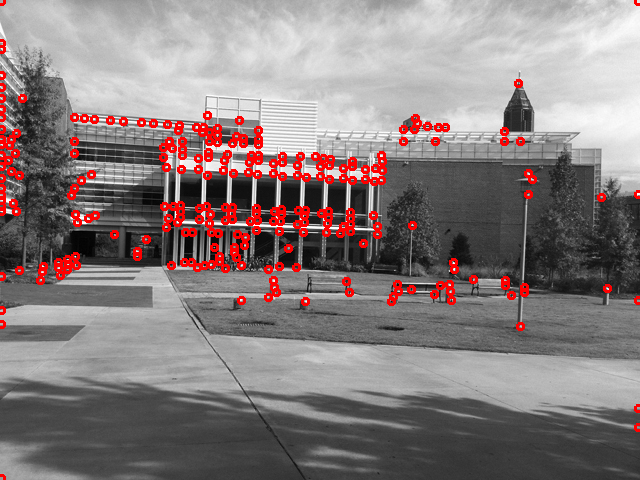
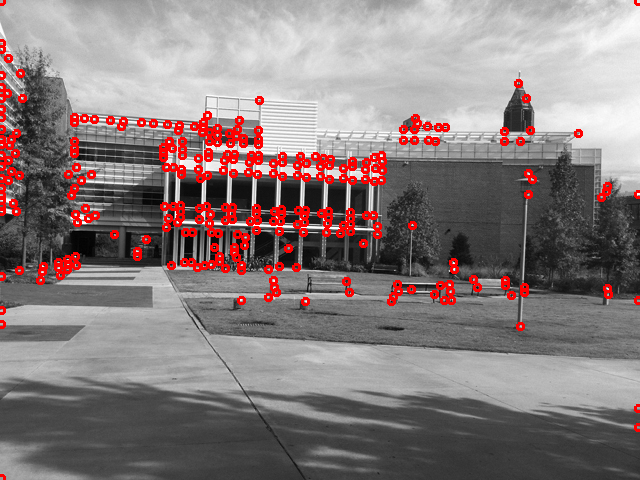
fixed harris

diff --git a/ps4_python_Plokhovska_Zhanneta/ps4.py b/ps4_python_Plokhovska_Zhanneta/ps4.py
@@ -68,11 +68,14 @@ def compute_harris_image(Ix, Iy):
 def find_corner_points(harris_img, numcorners = 300, threshold = 0.5, nHoodSize = [1, 1]):
 	rows, columns = harris_img.shape
 	
+	# Optional to normalize
+	harris_img = normalize(harris_img)
+	
 	# Default threshold
 	max_row, max_column = np.unravel_index(np.argmax(harris_img), (rows, columns))
 	min_row, min_column = np.unravel_index(np.argmin(harris_img), (rows, columns))
 	threshold = threshold * (harris_img[max_row][max_column] + harris_img[min_row][min_column])
-	#print "\nThreshold: {} Max: {} Min: {}\n".format(threshold, harris_img[max_row][max_column], harris_img[min_row][min_column])
+	print "\nThreshold: {} Max: {} Min: {}\n".format(threshold, harris_img[max_row][max_column], harris_img[min_row][min_column])
 	
 	# Default nHoodSize
 	height, width = harris_img.shape
